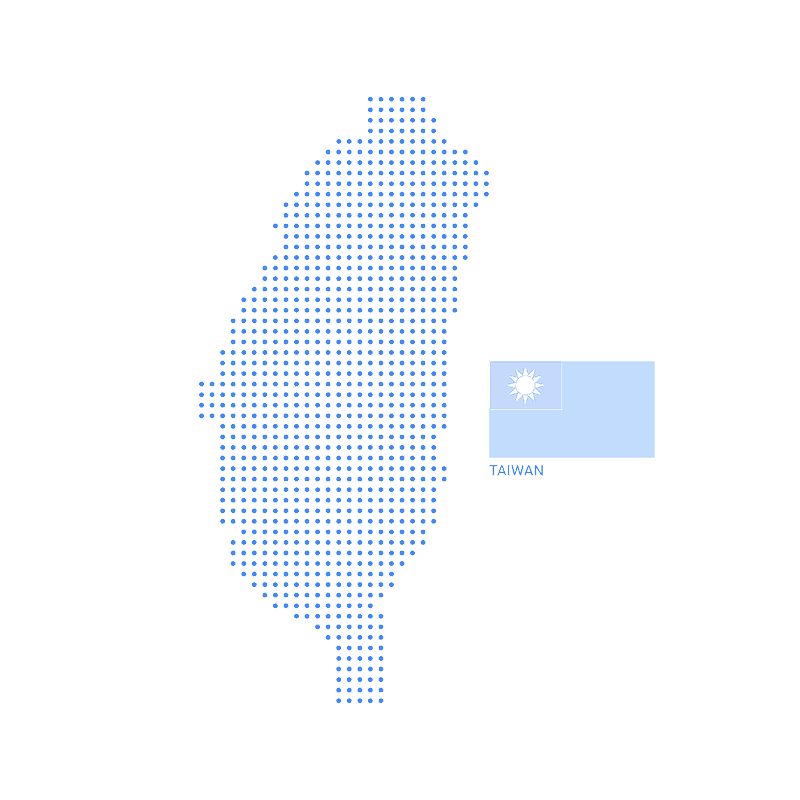
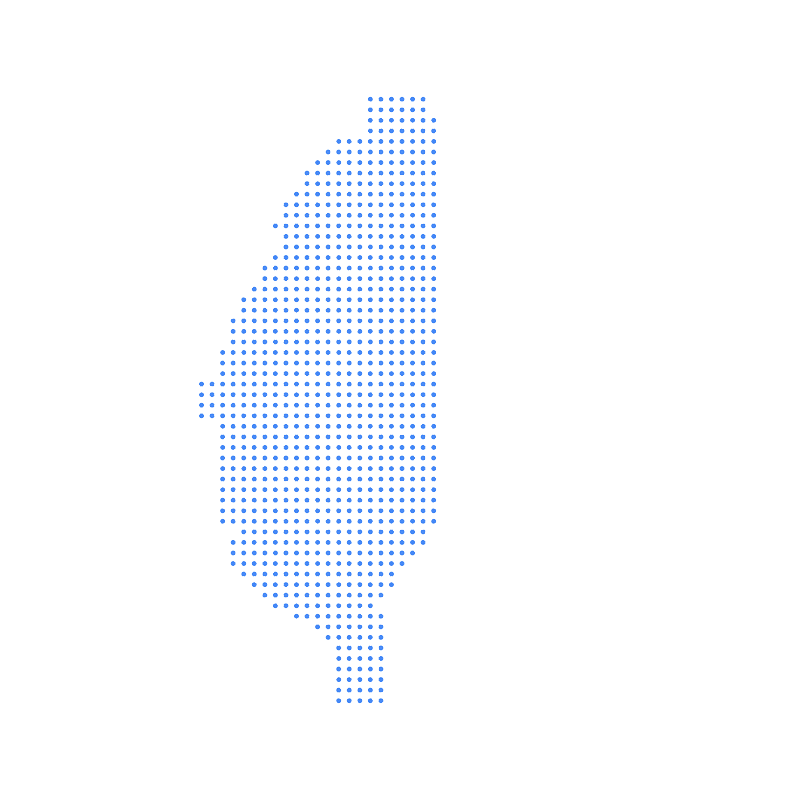
移除地圖國旗+精確校正全台19縣市標點位置

Changed region(s): [[0.5938, 0.4375, 0.8438, 0.5938], [0.5312, 0.1875, 0.625, 0.3438], [0.5312, 0.4375, 0.5625, 0.4688]]

diff --git a/src/components/TrafficMonitor.tsx b/src/components/TrafficMonitor.tsx
@@ -111,15 +111,20 @@ function getSeverity(title: string): "critical" | "major" | "minor" {
 // ===== 台灣地圖（圖片 + 城市標記）=====
 // 接收 incidents（模擬事故）來統計各縣市事故數
 function TaiwanMap({ incidents, highlightCity }: { incidents: Incident[]; highlightCity: string | null }) {
-  // 所有縣市座標（涵蓋全台灣）
+  // 所有縣市座標（精確校正到地圖圖片位置）
+  // 台灣本島範圍：x 25%-54%, y 12%-88%
   const cityPositions: Record<string, { x: number; y: number }> = {
-    "台北市": { x: 47, y: 13 }, "新北市": { x: 52, y: 17 }, "基隆市": { x: 56, y: 11 },
-    "桃園市": { x: 41, y: 21 }, "新竹市": { x: 38, y: 27 }, "新竹縣": { x: 42, y: 25 },
-    "苗栗縣": { x: 36, y: 33 }, "台中市": { x: 33, y: 40 }, "彰化縣": { x: 29, y: 47 },
-    "南投縣": { x: 37, y: 47 }, "雲林縣": { x: 27, y: 53 }, "嘉義市": { x: 28, y: 58 },
-    "嘉義縣": { x: 32, y: 56 }, "台南市": { x: 27, y: 65 }, "高雄市": { x: 31, y: 73 },
-    "屏東縣": { x: 37, y: 81 }, "宜蘭縣": { x: 56, y: 21 }, "花蓮縣": { x: 52, y: 40 },
-    "台東縣": { x: 45, y: 64 },
+    "基隆市": { x: 46, y: 16 },
+    "台北市": { x: 42, y: 18 }, "新北市": { x: 46, y: 21 },
+    "桃園市": { x: 38, y: 24 }, "新竹市": { x: 36, y: 29 }, "新竹縣": { x: 39, y: 27 },
+    "苗栗縣": { x: 35, y: 34 },
+    "台中市": { x: 33, y: 40 }, "彰化縣": { x: 30, y: 45 }, "南投縣": { x: 37, y: 44 },
+    "雲林縣": { x: 29, y: 50 }, "嘉義市": { x: 30, y: 55 }, "嘉義縣": { x: 33, y: 53 },
+    "台南市": { x: 29, y: 61 },
+    "高雄市": { x: 32, y: 68 }, "屏東縣": { x: 37, y: 76 },
+    "宜蘭縣": { x: 48, y: 24 },
+    "花蓮縣": { x: 46, y: 40 },
+    "台東縣": { x: 42, y: 60 },
   };
 
   // 統計各縣市事故數量（從模擬事故列表）
